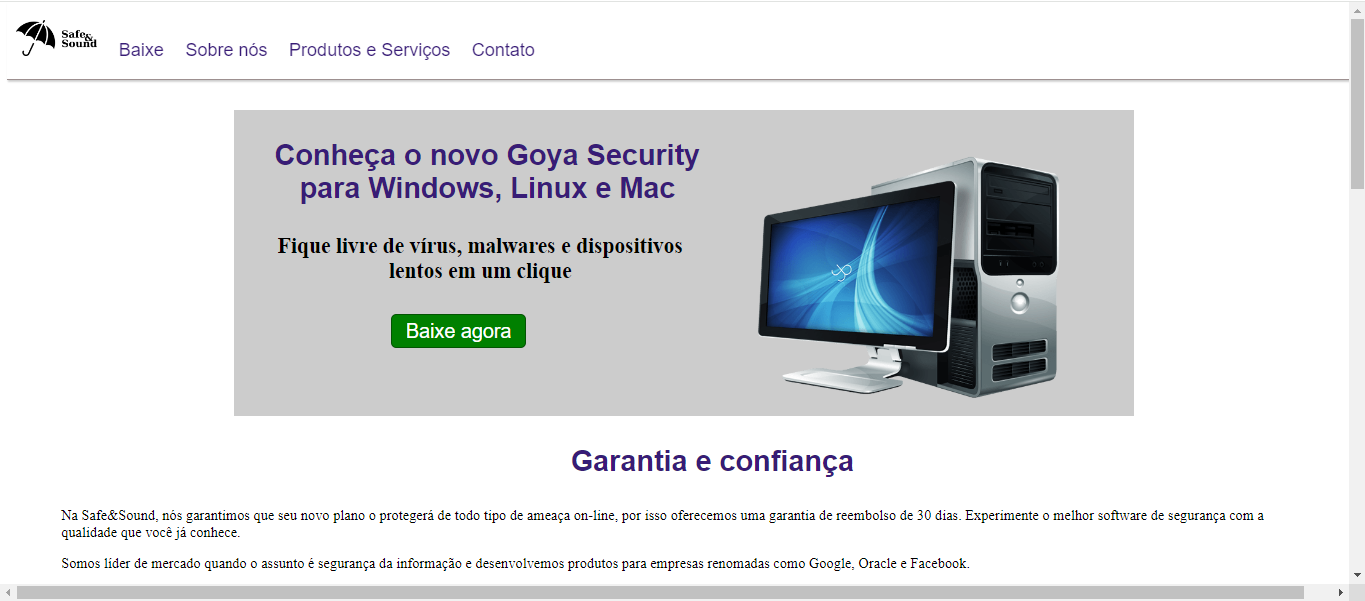
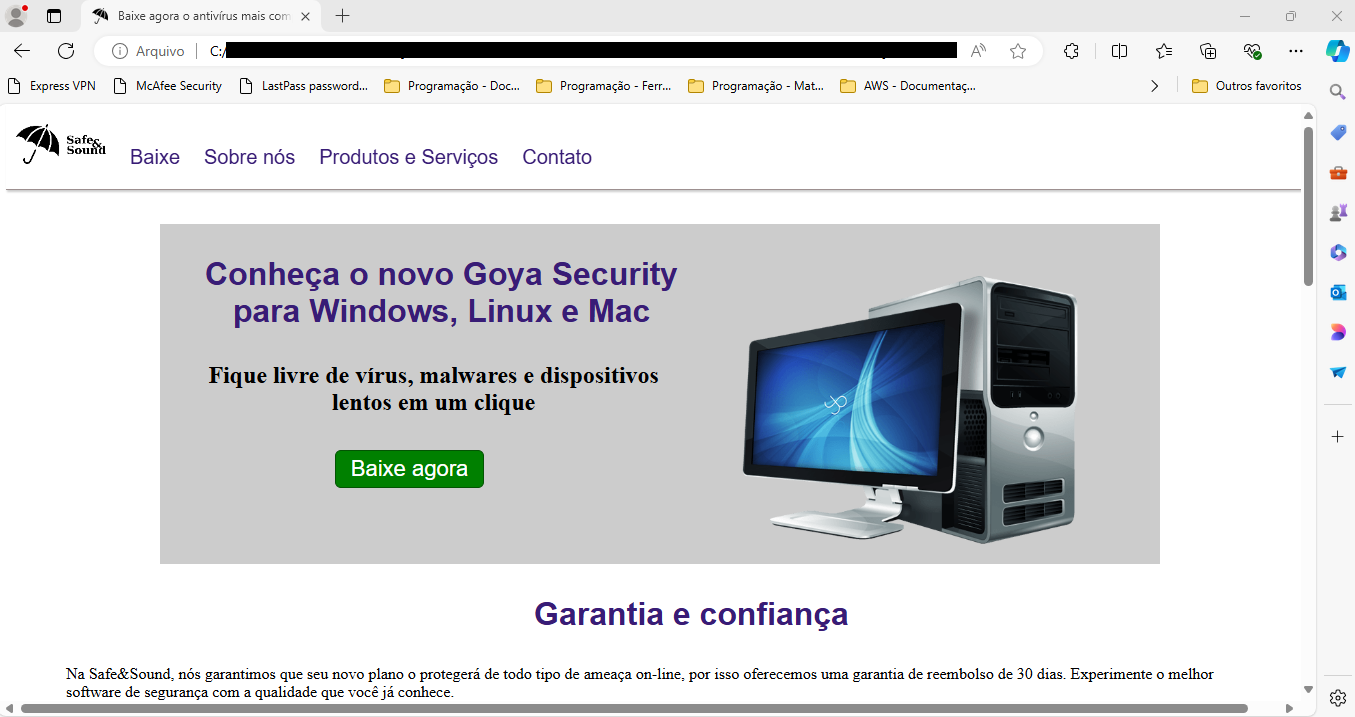
Adição do restante das imagens do README

diff --git a/README.md b/README.md
@@ -12,6 +12,22 @@ ___
 ___
 ### Apresentação visual do projeto desenvolvido
 
+#### Apresentação inicial do produto
 <div allign = "center">
-<img src="/assets/imgs/imgs-readme/layout01.png" width = "600px" />
+<img src="/assets/imgs/imgs-readme/layout01.png" width = "700px" />
+</div>
+
+#### Apresentação da empresa fictícia do produto
+<div allign = "center">
+<img src="/assets/imgs/imgs-readme/layout02.png" width = "700px" />
+</div>
+
+#### Tabela com comparativos de planos distintos do produto
+<div allign = "center">
+<img src="/assets/imgs/imgs-readme/layout03.png" width = "700px" />
+</div>
+
+#### Formulário para contato
+<div allign = "center">
+<img src="/assets/imgs/imgs-readme/layout04.png" width = "700px" />
 </div>
